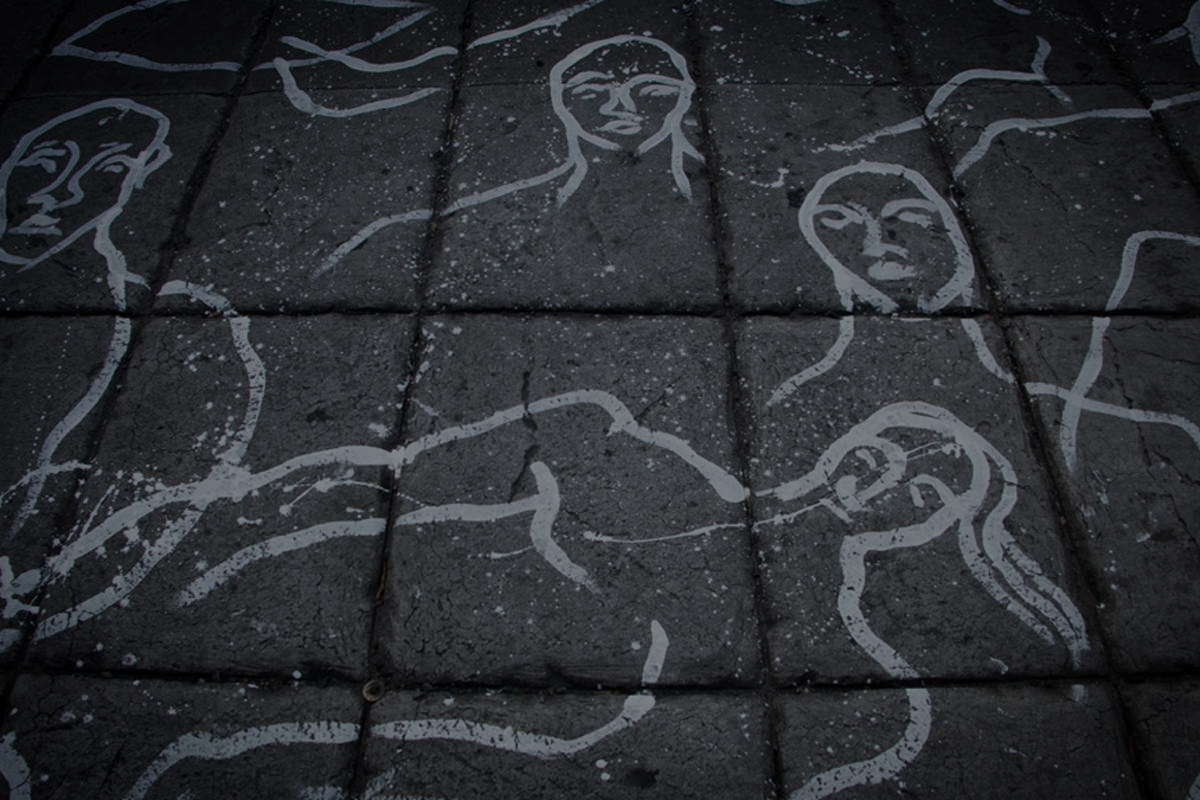
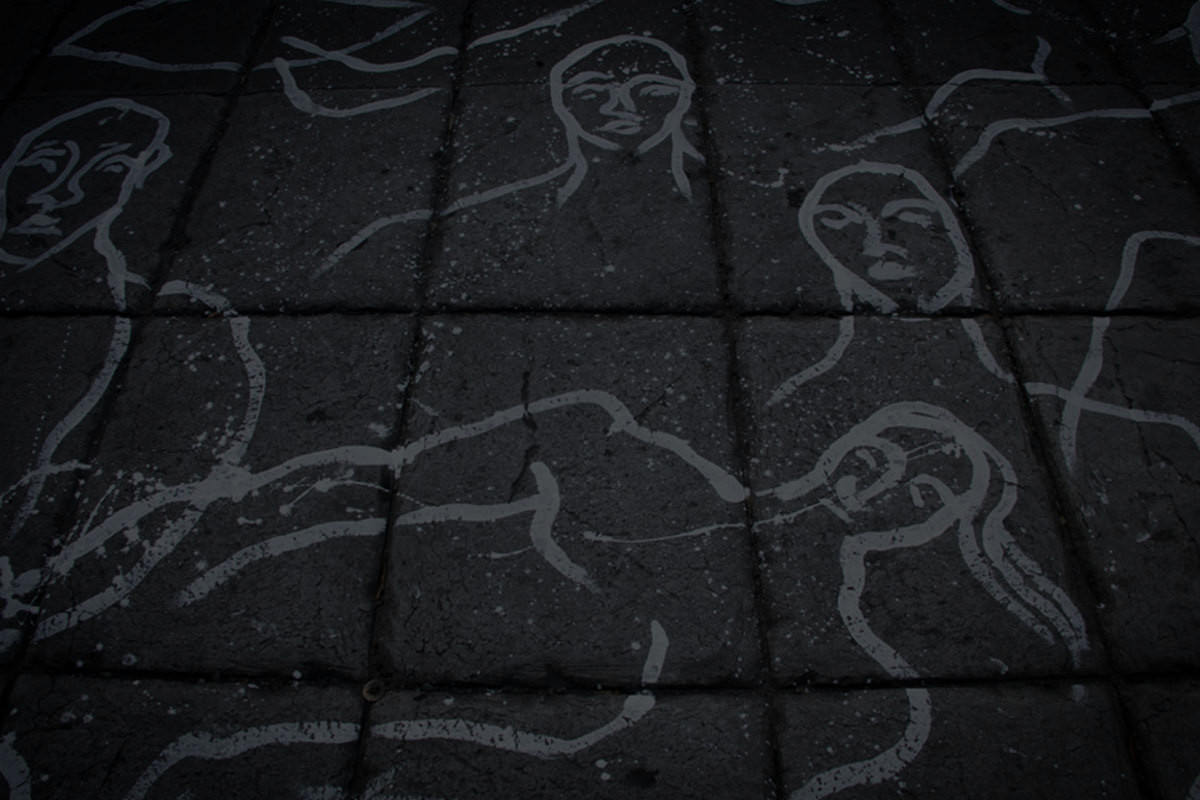
Ajustes gerais de frontend.
* Alterado largura da borda dos campos e escurecido imagem de background na página contato.
* Tentativa de listas as especilidades dos especialistas
* Retirado link para comentarios na lista de publicações

diff --git a/carceropolis/templates/carceropolis/publicacao/publicacao_list.html b/carceropolis/templates/carceropolis/publicacao/publicacao_list.html
@@ -45,7 +45,6 @@
 <!-- TESTE -->
 {{publicacoes}}
 {% for publicacao in teste %}
-{{publicacao}}
 {% endfor %}
 <!-- TESTE -->
 
@@ -134,19 +133,6 @@
     {% endif %}
     <p>
     <a href="{{ publicacao.get_absolute_url }}">{% trans "read more" %}</a>
-    {% if publicacao.allow_comments %}
-    /
-    {% if settings.COMMENTS_DISQUS_SHORTNAME %}
-    <a href="{{ publicacao.get_absolute_url }}#disqus_thread"
-        data-disqus-identifier="{% disqus_id_for publicacao %}">
-        {% trans "Comments" %}
-    </a>
-    {% else %}
-    <a href="{{ publicacao.get_absolute_url }}#comments">
-        {% blocktrans count comments_count=publicacao.comments_count %}{{ comments_count }} comment{% plural %}{{ comments_count }} comments{% endblocktrans %}
-    </a>
-    {% endif %}
-    {% endif %}
     </p>
 </div>
 {% endblock %}

diff --git a/carceropolis/scss/_contact.scss b/carceropolis/scss/_contact.scss
@@ -84,7 +84,7 @@
         background-color: transparent;
         background-image: none;
         border: none;
-        border-bottom: 1px solid $cp-orange-dark;
+        border-bottom: 2px solid $cp-orange-dark;
         border-radius: initial;
         box-shadow: inherit;
         color: white;
@@ -100,7 +100,7 @@
     }
 
     .form-group > textarea {
-        border: 1px solid $cp-orange-dark;
+        border: 2px solid $cp-orange-dark;
         line-height: 24px;
         margin-top: 30px;
         padding: 5px;
@@ -115,7 +115,7 @@
     }
 
     .btn-primary {
-        border: 1px solid $cp-orange-dark;
+        border: 2px solid $cp-orange-dark;
         float: right;
         padding: 10px;
         width: 100px;

diff --git a/carceropolis/static/css/carceropolis.css b/carceropolis/static/css/carceropolis.css
@@ -1259,7 +1259,7 @@ body {
   background-color: transparent;
   background-image: none;
   border: none;
-  border-bottom: 1px solid #ea702e;
+  border-bottom: 2px solid #ea702e;
   border-radius: initial;
   box-shadow: inherit;
   color: white;
@@ -1293,7 +1293,7 @@ body {
 }
 /* line 102, ../../scss/_contact.scss */
 .contact-form .form-group > textarea {
-  border: 1px solid #ea702e;
+  border: 2px solid #ea702e;
   line-height: 24px;
   margin-top: 30px;
   padding: 5px;
@@ -1308,7 +1308,7 @@ body {
 }
 /* line 117, ../../scss/_contact.scss */
 .contact-form .btn-primary {
-  border: 1px solid #ea702e;
+  border: 2px solid #ea702e;
   float: right;
   padding: 10px;
   width: 100px;

diff --git a/carceropolis/templates/carceropolis/especialistas/especialistas.html b/carceropolis/templates/carceropolis/especialistas/especialistas.html
@@ -27,7 +27,10 @@
 				{{especialista.mini_bio}}
 			</p>
 			<p>
-				Especialidade: {{especialista.area_de_atuacao}}
+				Especialidade: {{especialista.especialidades}}
+				{% for especialidade in especialista.especilidades %}
+				{{especialidade.nome_da_especialidade}}
+				{% endfor %}
 			</p>
 			<a href="mailto:{{especialista.email}}" class="email">{{especialista.email}}</a>
 		</li>

diff --git a/CONTRIBUTING.md b/CONTRIBUTING.md
@@ -158,3 +158,27 @@ python manage.py runserver
 ```
 
 e visite, em seu navegador, o endereço: http://127.0.0.1:8000
+
+### Trabalhando com o CSS
+Este projeto utiliza o Compass para escrever CSS. O Compass é um pre-processador de CSS escrito em Ruby, no qual seu output é CSS puro.  
+
+Para utilizar o Compass, você deve instalar o [Ruby](http://rubyinstaller.org/) em seu computador e depois instalar o [Compass](http://compass-style.org/).  
+
+Após instalação, você pode verificar as configurações de compilação no arquivo ./carceropolis/config.rb  
+
+Os arquivos .scss (compass) estão no diretório ./carceropolis/scss  
+
+Para trabalhar com arquivos .sccs você deve iniciar o serviço que observa modificações neles, para compilar-los assim que salvos. Para isto você deve digitar no terminal no diretório onde o arquivo config.rb está salvo.
+
+`$ compass watch`  
+
+Siga a sintaxe da linguagem para realizar as modificações necessárias.  
+
+Nunca faça modificações direto nos arquivos CSS pois estes serão apagados a toda nova compilação do Compass.  
+
+Para compilar apenas uma vez:  
+
+`$ compass compile`  
+
+Parar parar o watch `control c`
+
